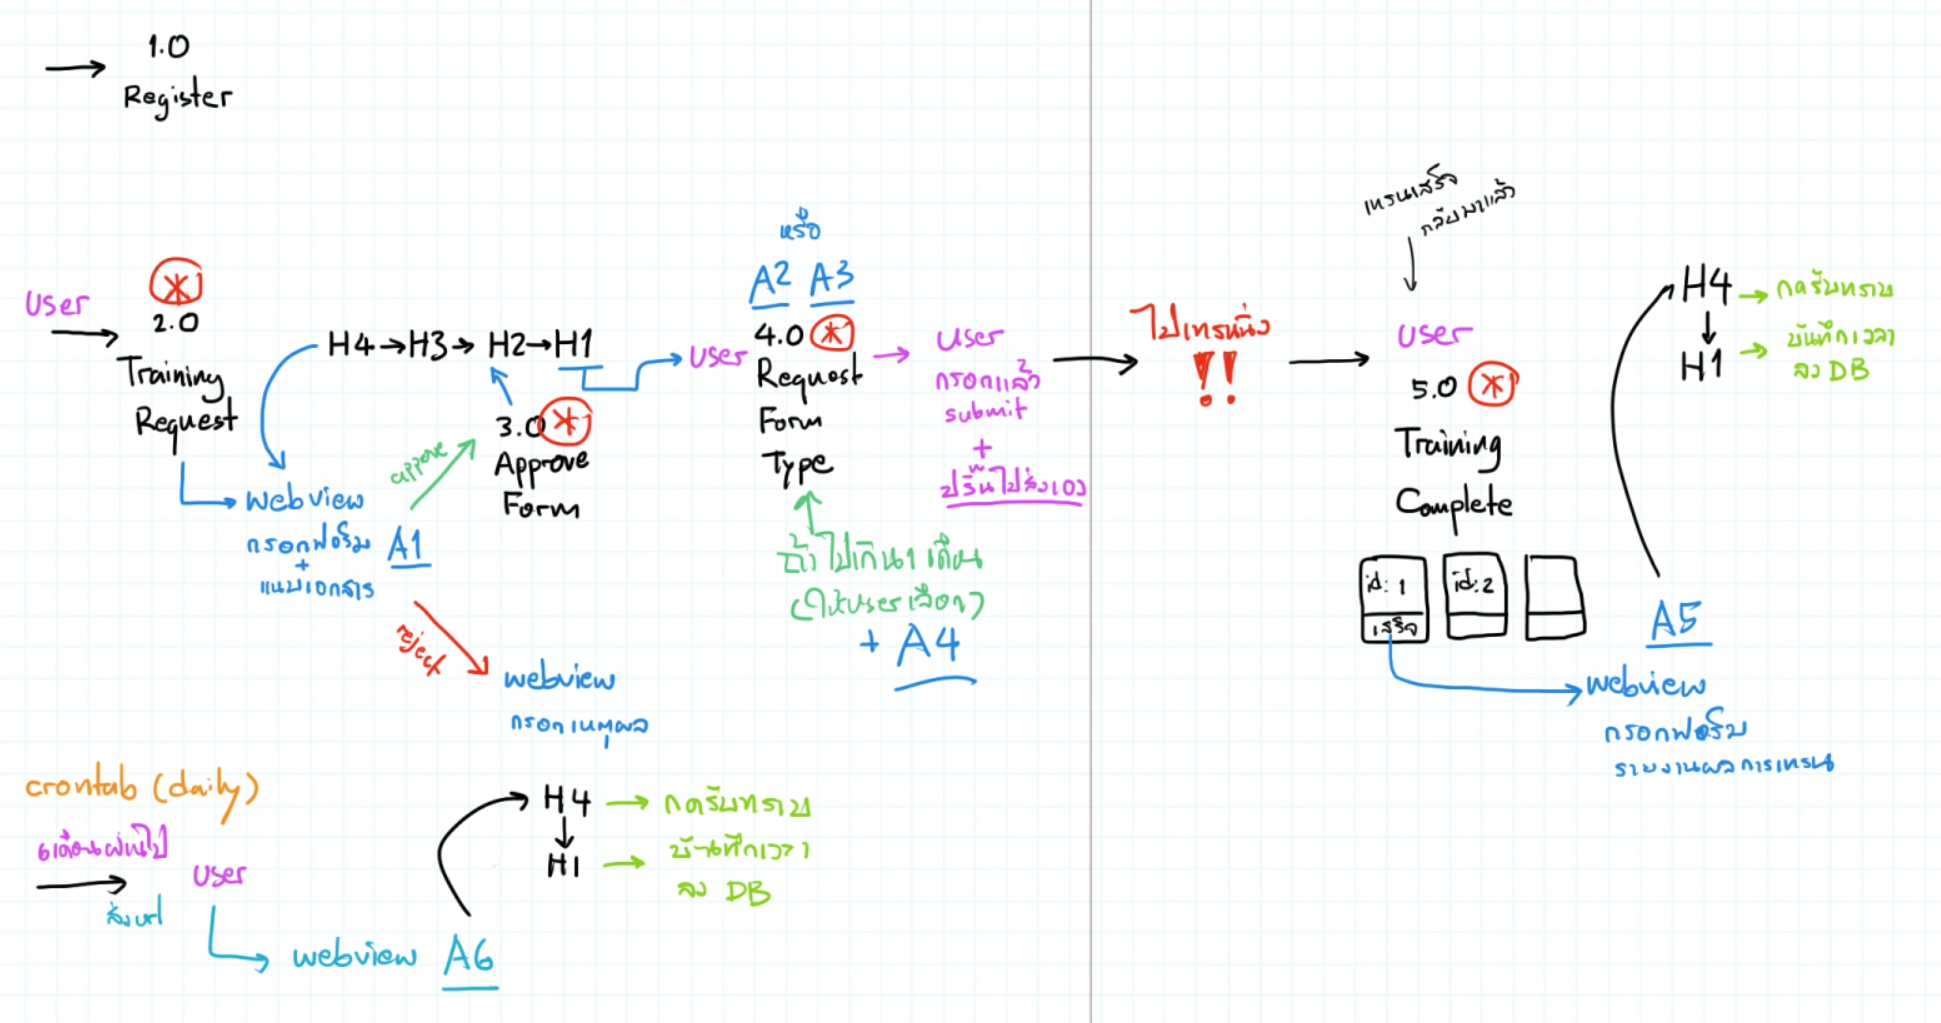
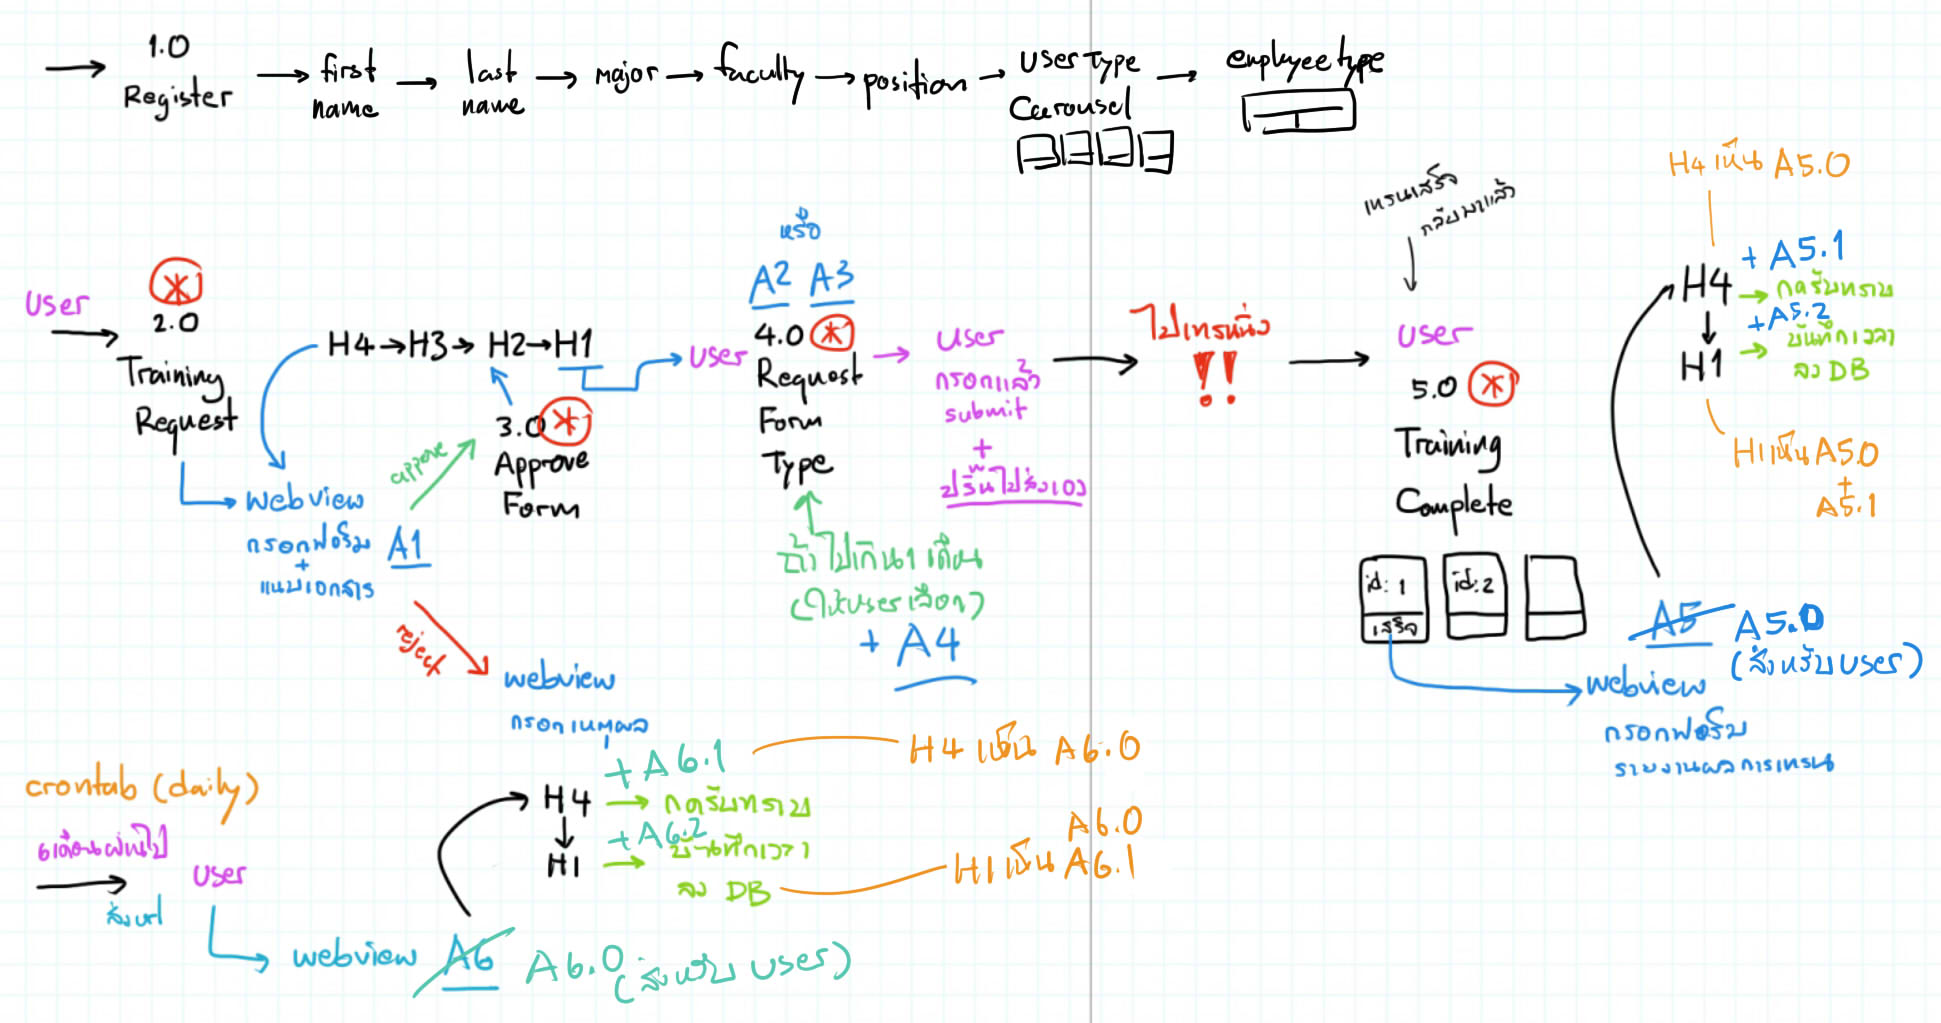
อัพเดทโฟล A5 เปลี่ยนเป็นให้ผู้ใช้กรอก A5.0 แล้วส่งต่อให้ H4 กรอก A5.1 ต่ออีกที แล้วค่อยให้ H1 กรอก A5.2 (จากเดิมที่ H4 H1 ไม่ต้องกรอกอะไร แค่กดรับทราบอย่างเดียวก็พอ)

diff --git a/forms/A51.php b/forms/A51.php
@@ -1,0 +1,43 @@
+<h1>บันทึกข้อความ A5</h1>
+
+<div>
+    <p>ส่วนราชการ สาขาวิชา {{info_major}} คณะ {{info_faculty}}</p>
+    <p>ที่ {{at}} วันที่ {{date}}</p>
+    <p>เรื่อง {{courseName}}</p>
+</div>
+
+<hr/>
+
+<p>เรียน คณะบดี</p>
+
+<table>
+    <thead>
+    <tr>
+        <td rowspan="2">หัวข้อเรื่อง</td>
+        <td colspan="2">ผลสัมฤทธิ์</td>
+        <td rowspan="2">มีการนำมาใช้</td>
+    </tr>
+    <tr>
+        <td>ไม่มีการนำมาใช้</td>
+        <td>มีการนำมาใช้</td>
+    </tr>
+    </thead>
+    <tbody>
+    <tr>
+        <td>1.สามารถนำความรู้มาใช้ ...</td>
+        <td>{{yes_1}}</td>
+        <td>{{no_1}}</td>
+        <td>{{how_1}}</td>
+    </tr>
+    </tbody>
+</table>
+
+<style>
+    .my-form-paper thead td{
+        text-align: center;
+    }
+    .my-form-paper td{
+        border: 1px solid #000;
+        padding: 5px;
+    }
+</style>

diff --git a/forms/A52.php b/forms/A52.php
@@ -1,0 +1,43 @@
+<h1>บันทึกข้อความ A5</h1>
+
+<div>
+    <p>ส่วนราชการ สาขาวิชา {{info_major}} คณะ {{info_faculty}}</p>
+    <p>ที่ {{at}} วันที่ {{date}}</p>
+    <p>เรื่อง {{courseName}}</p>
+</div>
+
+<hr/>
+
+<p>เรียน คณะบดี</p>
+
+<table>
+    <thead>
+    <tr>
+        <td rowspan="2">หัวข้อเรื่อง</td>
+        <td colspan="2">ผลสัมฤทธิ์</td>
+        <td rowspan="2">มีการนำมาใช้</td>
+    </tr>
+    <tr>
+        <td>ไม่มีการนำมาใช้</td>
+        <td>มีการนำมาใช้</td>
+    </tr>
+    </thead>
+    <tbody>
+    <tr>
+        <td>1.สามารถนำความรู้มาใช้ ...</td>
+        <td>{{yes_1}}</td>
+        <td>{{no_1}}</td>
+        <td>{{how_1}}</td>
+    </tr>
+    </tbody>
+</table>
+
+<style>
+    .my-form-paper thead td{
+        text-align: center;
+    }
+    .my-form-paper td{
+        border: 1px solid #000;
+        padding: 5px;
+    }
+</style>

diff --git a/forms/A61.php b/forms/A61.php
@@ -1,0 +1,43 @@
+<h1>บันทึกข้อความ A6</h1>
+
+<div>
+    <p>ส่วนราชการ สาขาวิชา {{info_major}} คณะ {{info_faculty}}</p>
+    <p>ที่ {{at}} วันที่ {{date}}</p>
+    <p>เรื่อง {{courseName}}</p>
+</div>
+
+<hr/>
+
+<p>เรียน คณะบดี</p>
+
+<table>
+    <thead>
+    <tr>
+        <td rowspan="2">หัวข้อเรื่อง</td>
+        <td colspan="2">ผลสัมฤทธิ์</td>
+        <td rowspan="2">มีการนำมาใช้</td>
+    </tr>
+    <tr>
+        <td>ไม่มีการนำมาใช้</td>
+        <td>มีการนำมาใช้</td>
+    </tr>
+    </thead>
+    <tbody>
+    <tr>
+        <td>1.สามารถนำความรู้มาใช้ ...</td>
+        <td>{{yes_1}}</td>
+        <td>{{no_1}}</td>
+        <td>{{how_1}}</td>
+    </tr>
+    </tbody>
+</table>
+
+<style>
+    .my-form-paper thead td{
+        text-align: center;
+    }
+    .my-form-paper td{
+        border: 1px solid #000;
+        padding: 5px;
+    }
+</style>

diff --git a/forms/A62.php b/forms/A62.php
@@ -1,0 +1,43 @@
+<h1>บันทึกข้อความ A6</h1>
+
+<div>
+    <p>ส่วนราชการ สาขาวิชา {{info_major}} คณะ {{info_faculty}}</p>
+    <p>ที่ {{at}} วันที่ {{date}}</p>
+    <p>เรื่อง {{courseName}}</p>
+</div>
+
+<hr/>
+
+<p>เรียน คณะบดี</p>
+
+<table>
+    <thead>
+    <tr>
+        <td rowspan="2">หัวข้อเรื่อง</td>
+        <td colspan="2">ผลสัมฤทธิ์</td>
+        <td rowspan="2">มีการนำมาใช้</td>
+    </tr>
+    <tr>
+        <td>ไม่มีการนำมาใช้</td>
+        <td>มีการนำมาใช้</td>
+    </tr>
+    </thead>
+    <tbody>
+    <tr>
+        <td>1.สามารถนำความรู้มาใช้ ...</td>
+        <td>{{yes_1}}</td>
+        <td>{{no_1}}</td>
+        <td>{{how_1}}</td>
+    </tr>
+    </tbody>
+</table>
+
+<style>
+    .my-form-paper thead td{
+        text-align: center;
+    }
+    .my-form-paper td{
+        border: 1px solid #000;
+        padding: 5px;
+    }
+</style>
